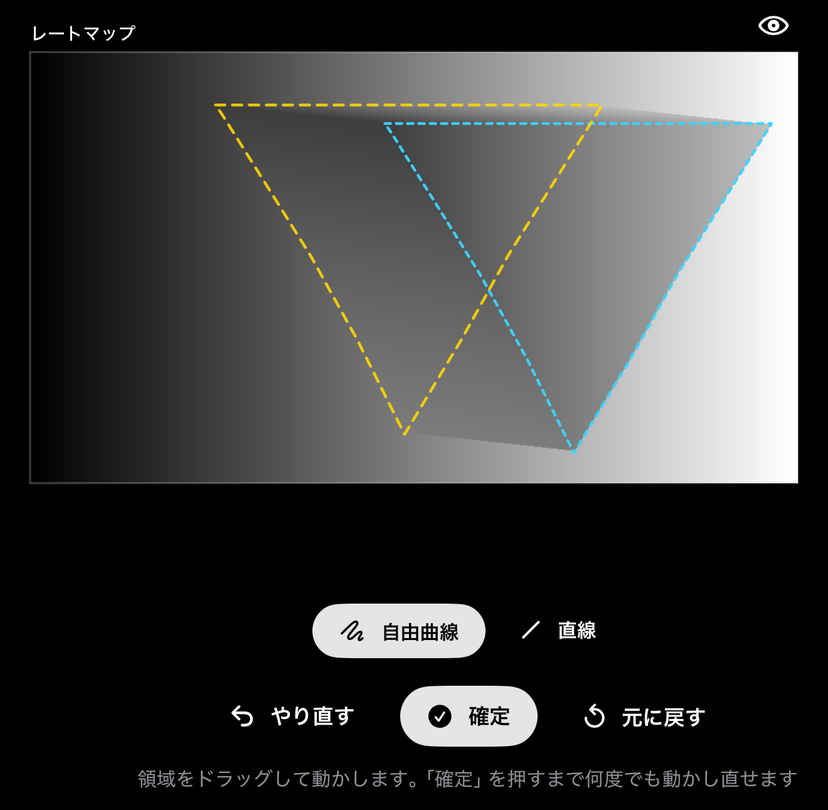
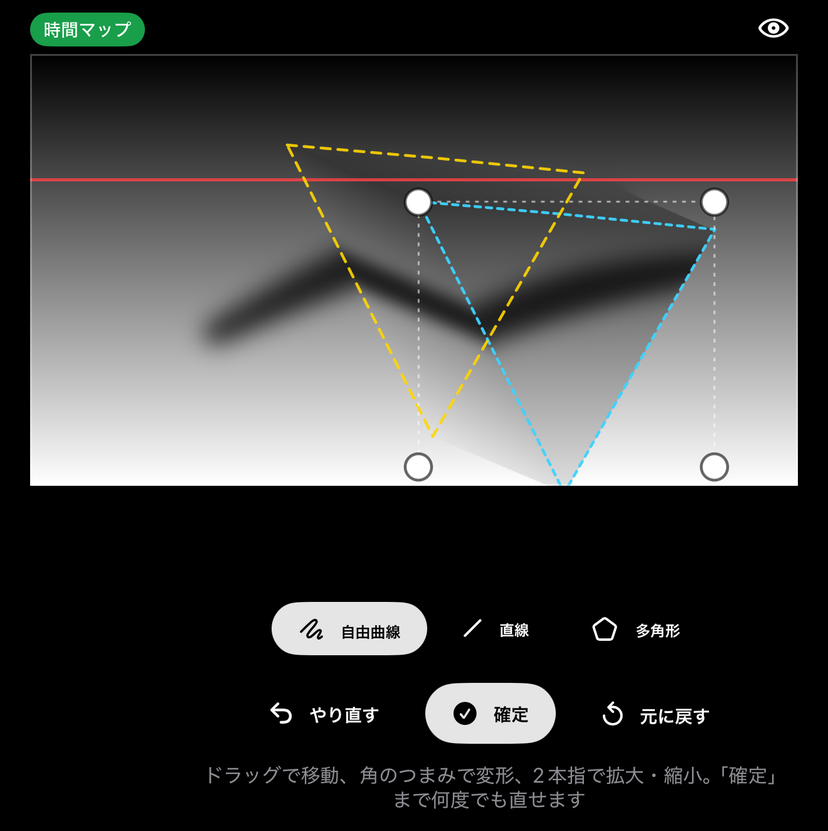
1.25 向け: 案内図と画像を撮り直し、説明を今回の変更に合わせる
編集画面とモニタービューの案内図、3 画面・切り分けの画像を新しい画面に。4 画面と編集範囲の画像を追加。
モニタービューのペン、編集対象、トップ画面の「時間＋空間」、別の動画でも編集したマップを保つこと、
切り分けの説明、英語の FAQ を直す。

diff --git a/index.html b/index.html
@@ -34,7 +34,8 @@
   <li><img class="ui" src="icons/draw.svg" alt=""><strong>描画</strong> — 指でなぞって時間の流れを描く。5段階の濃淡と自由な灰色、スポイト、指先ツール。触れたまま止めると色がにじむ</li>
   <li><img class="ui" src="icons/gradient.svg" alt=""><img class="ui" src="icons/preset.svg" alt=""><strong>グラデーション生成・プリセット</strong> — 規則的なパターンから始める</li>
   <li><img class="ui" src="icons/motion.svg" alt=""><strong>モーション解析</strong> — 映像自身の動きから自動で時間の形をつくる</li>
-  <li><img class="ui" src="icons/cut.svg" alt=""><strong>切り分け</strong> — マップを線で2つに分けてずらし、時間のずれをつくる</li>
+  <li><img class="ui" src="icons/cut.svg" alt=""><strong>切り分け</strong> — マップを線で2つに分け、動かしたり拡大・台形に変形したりして、時間のずれをつくる</li>
+  <li><img class="ui" src="icons/edit_region.svg" alt=""><strong>編集範囲</strong> — マップの中に四角を引き、その中（または外）だけを編集する</li>
 </ul>
 <h3>描いた時間の効かせ方</h3>
 <ul>
@@ -79,6 +80,7 @@
     <strong>入力映像・マップ・出力映像・立体グラフ・時間グラフ</strong>を選ぶと、いくつでも並べて見比べられます。
     押した順に上から並びます（横長の画面では左右に）。マップは、いま出力に効いているもの（時間マップかレートマップ）が出ます。
     空間マップは編集したときだけ選べます。トップ画面の立体グラフの右下のボタンから開くと、立体グラフだけで始まります。編集画面の出力映像と立体グラフの右下のボタンからも開け、「戻る」で編集画面に帰ります。
+    並べたマップの右下のペン<img class="ui" src="icons/map_edit.svg" alt="">を押すと、そのマップの編集画面へ移ります。
     画面の大きな端末（iPhone Air・Plus・Pro Max・iPad）では、並べた画面の右下のボタンでその画面だけを全画面にできます。
     モニタービューは見るための画面なので、書き出しはトップ画面の「書き出し」から行います。
     </p>
@@ -114,7 +116,7 @@
   <figure><img src="shots/v16/ja/volume.png" alt="立体グラフ。素材の箱の中で斜めに傾いた面と、秒数の目盛り" loading="lazy"><figcaption>立体グラフ。縦スリット×時間マップの「左→右」では、左ほど前の瞬間を映すので面が斜めに傾きます</figcaption></figure>
 </div>
 
-<figure class="guide"><a href="shots/guide/editor_ja.jpg"><img src="shots/guide/editor_ja.jpg" alt="編集画面の各部の名前を赤い線で示した図。上から適用パラメータなどのボタン、結果の映像、編集するマップ、筆の色とスライダー、手法のボタン" loading="lazy"></a><figcaption>編集画面（押すと大きく開きます）</figcaption></figure>
+<figure class="guide"><a href="shots/guide/editor_ja.jpg"><img src="shots/guide/editor_ja.jpg" alt="編集画面の各部の名前を赤い線で示した図。上から編集対象や適用パラメータなどのボタン、結果の映像、編集するマップのタブと編集範囲、マップ、筆の色とスライダー、手法のボタン" loading="lazy"></a><figcaption>編集画面（押すと大きく開きます）</figcaption></figure>
     <h3>2. マップを描く</h3>
     <p>
     マップ画像の右下にある鉛筆アイコン<img class="ui" src="icons/map_edit.svg" alt="">、出力映像のタップ、または画面下の<img class="ui" src="icons/dock_edit.svg" alt=""><strong>「編集」</strong>から編集画面に入ります。
@@ -145,15 +147,23 @@
     右上の表示メニュー<img class="ui" src="icons/layout.svg" alt="">で並べ方を選べます。<strong>重ねて表示</strong>・<strong>2画面: 映像 ＋ マップ</strong>（最初の表示）のほか、
     <strong>2画面: 立体グラフ ＋ マップ</strong>と<strong>3画面: 映像 ＋ 立体グラフ ＋ マップ</strong>では、描きながら立体グラフの面の変化を確かめられます。3画面は画面の長い方向に並びます。<strong>4画面: 映像 ＋ 立体 ＋ マップ 2 枚</strong>は時間系のマップと空間マップを並べ、緑の枠が編集中のマップです（もう一方を押すとそちらに切り替わります）。
     左上の<strong>編集対象</strong>では、時間マップかレートマップのどちらかと、空間マップを一緒に選べます。2 枚を選んでいるときは、マップの上に「時間マップ｜空間マップ」のタブが並び、押して描く相手を切り替えます（緑が編集中）。空間マップをすでに編集していれば、最初から 2 枚で開きます。
+    トップ画面のマップの名前は、時間系と空間の両方を編集していると「時間＋空間」になり、いま見えているほうが明るく出ます。
+    </p>
+    <p>
+    <strong>別の動画を読み込んでも、編集したマップは保たれます。</strong>新しい動画の縦横比に合わせて引き伸ばし、編集の手順もそのまま戻せます。編集していないマップは新しい動画に合わせた既定の形になります。既定に戻したいときは、ひとつ前に戻す<img class="ui" src="icons/undo.svg" alt="">の長押しかプリセットの「既定」を使います。
     </p>
     <p>
     マップの名前の横の<strong>編集範囲</strong><img class="ui" src="icons/edit_region.svg" alt="">を押してからマップをドラッグすると、その四角の中だけに描画・生成・プリセット・ブラー・ガンマ・反転が効きます（四角は緑の破線で示し、効かない側を少し暗くします）。
     プリセットのグラデーションは四角の端から端までになるので、部分ごとに違うグラデーションを置けます。隣の<img class="ui" src="icons/edit_region_swap.svg" alt="">で四角の外側に切り替えられ、編集範囲をもう一度押すと解除します。切り分けの結果も四角の中だけに残ります（切り分けの間はボタンが出ないので、範囲の変更はほかの方法で）。
     </p>
+    <figure class="crop"><img src="shots/v125/ja/edit_region.png" alt="編集範囲を右側に引き、その中だけに左→右のプリセットを塗った画面。四角は緑の破線で、外は元のマップのまま" loading="lazy"><figcaption>四角の中だけに左→右のプリセット。グラデーションは四角の端から端まで</figcaption></figure>
   
 
 
-<figure><img src="shots/v16/ja/editor_3pane.png" alt="編集画面の3画面表示。上から出力映像、傾いた面の入った立体グラフ、左→右のグラデーションの時間マップが並ぶ" loading="lazy"><figcaption>3画面: 映像 ＋ 立体グラフ ＋ マップ</figcaption></figure>
+<div class="gallery">
+  <figure><img src="shots/v16/ja/editor_3pane.png" alt="編集画面の3画面表示。上から出力映像、立体グラフ、時間マップが並ぶ" loading="lazy"><figcaption>3画面: 映像 ＋ 立体グラフ ＋ マップ</figcaption></figure>
+  <figure><img src="shots/v125/ja/editor_quad.png" alt="編集画面の4画面表示。上から出力映像、立体グラフ、緑の枠の時間マップ、空間マップが並ぶ" loading="lazy"><figcaption>4画面: 緑の枠が編集中のマップ</figcaption></figure>
+</div>
 
     <h3>3. 生成やプリセットから始める</h3>
     <p>
@@ -384,7 +394,8 @@ thought you knew.
   <li><img class="ui" src="icons/draw.svg" alt=""><strong>Draw</strong> &mdash; trace with a finger to draw the flow of time. Five brush tones and a smudge tool; hold still and the tone bleeds outward</li>
   <li><img class="ui" src="icons/gradient.svg" alt=""><img class="ui" src="icons/preset.svg" alt=""><strong>Gradients and presets</strong> &mdash; start from a regular pattern</li>
   <li><img class="ui" src="icons/motion.svg" alt=""><strong>From motion</strong> &mdash; build the shape of time automatically from the movement in the clip</li>
-  <li><img class="ui" src="icons/cut.svg" alt=""><strong>Cut &amp; slide</strong> &mdash; split the map along a line and slide the pieces to make time slip</li>
+  <li><img class="ui" src="icons/cut.svg" alt=""><strong>Cut &amp; slide</strong> &mdash; split the map along a line, then move, scale or reshape the pieces to make time slip</li>
+  <li><img class="ui" src="icons/edit_region.svg" alt=""><strong>Edit region</strong> &mdash; draw a rectangle on the map and edit only its inside (or outside)</li>
 </ul>
 <h3>How the map is applied</h3>
 <ul>
@@ -539,8 +550,7 @@ laid out together, in the order you picked them &mdash; from the top, or left to
 is the one driving the output (the time map or the rate map); the space map can be picked once you have edited it.
 Opened from the 3D plot on the main screen, it starts with the 3D plot alone. On larger screens (iPhone Air, Plus,
 Pro Max and iPad) a button at the bottom right of each pane shows that one alone. The button at the bottom right of the
-Output and the 3D plot in the editor opens it too, and <strong>Back</strong> returns to the editor. The Monitor view is for looking
-only: export from <strong>Export</strong> on the main screen.
+Output and the 3D plot in the editor opens it too, and <strong>Back</strong> returns to the editor. The pen <img class="ui" src="icons/map_edit.svg" alt=""> at the bottom right of a map pane opens that map in the editor. To export, use <strong>Export</strong> on the main screen.
 </p>
 <figure class="guide"><a href="shots/guide/monitor_en.jpg"><img src="shots/guide/monitor_en.jpg" alt="The Monitor view showing the input video, the time map, the output video and the 3D plot, with the menu below for switching what is shown" loading="lazy"></a><figcaption>The Monitor view (tap to enlarge)</figcaption></figure>
 <div class="gallery">
@@ -585,15 +595,16 @@ mode is explained in <a href="time.html#volume-en">How time processing works</a>
 </p>
 <figure class="crop"><img src="shots/v16/en/volume.png" alt="The 3D plot: a tilted surface carrying the picture inside a box marked in seconds" loading="lazy"><figcaption>The 3D plot. With a Left &rarr; right time map under a vertical slit, the left of the picture shows earlier moments, so the surface is tilted</figcaption></figure>
 
-<figure class="guide"><a href="shots/guide/editor_en.jpg"><img src="shots/guide/editor_en.jpg" alt="The editor with each part named by red lines: the buttons along the top, the result, the map you edit, brush tones and sliders, and the method buttons" loading="lazy"></a><figcaption>The editor (tap to enlarge)</figcaption></figure>
+<figure class="guide"><a href="shots/guide/editor_en.jpg"><img src="shots/guide/editor_en.jpg" alt="The editor with each part named by red lines: the buttons along the top, the result, the map tabs and Edit region, the map you edit, brush tones and sliders, and the method buttons" loading="lazy"></a><figcaption>The editor (tap to enlarge)</figcaption></figure>
     <h3>3. Drawing or generating a map</h3>
     <p>
     The editor opens full screen. The row across the top carries the map-and-mode label at the left, the gear <img class="ui" src="icons/map_gear.svg" alt=""> (<strong>Parameters</strong>), the waveform (<strong>Sound</strong>), and an <strong>X</strong> at the far
-    right that closes the editor, with the layout menu <img class="ui" src="icons/layout.svg" alt=""> beside it. The method buttons sit at the bottom right. The <strong>Editing</strong> menu at the top left picks the time map or the rate map, and can add the space map alongside; with two selected, tabs above the map choose which one you draw on (green marks the one being edited), and the editor opens with both whenever the space map has already been edited. Nothing needs saving &mdash; the map is already applied.
+    right that closes the editor, with the layout menu <img class="ui" src="icons/layout.svg" alt=""> beside it. The method buttons sit at the bottom right. The <strong>Editing</strong> menu at the top left picks the time map or the rate map, and can add the space map alongside; with two selected, tabs above the map choose which one you draw on (green marks the one being edited), and the editor opens with both whenever the space map has already been edited. On the main screen, the map&rsquo;s name reads <strong>Time + Space</strong> once both have been edited, with the one on show brighter. Nothing needs saving &mdash; the map is already applied.
     </p>
     <p>
     <strong>Edit region</strong> <img class="ui" src="icons/edit_region.svg" alt=""> beside the map name limits your edits to a rectangle: tap it, then drag on the map. Draw, Gradient, Presets, Fill, Blur, Gamma, Invert and From motion then act only inside it (shown as a green dashed rectangle, with the other side slightly darkened). A preset gradient runs from one edge of the rectangle to the other, so different parts of the map can carry different gradients. The button beside it <img class="ui" src="icons/edit_region_swap.svg" alt=""> swaps to the outside of the rectangle; tap Edit region again to clear it. Cut &amp; slide keeps its result inside the region as well (its buttons are hidden while cutting, so change the region from another method).
     </p>
+    <figure class="crop"><img src="shots/v125/en/edit_region.png" alt="An edit region drawn on the right with a left-to-right preset inside it; the rectangle is a green dashed line and the map outside is unchanged" loading="lazy"><figcaption>A left-to-right preset inside the rectangle: the gradient runs from edge to edge of it</figcaption></figure>
     <p>
     Trace the map with a finger or Apple&nbsp;Pencil. The brush button opens a palette holding
     <strong>Fill</strong> <img class="ui" src="icons/fill.svg" alt="">, five tones &mdash; <strong>Black</strong>,
@@ -637,9 +648,9 @@ Two separate choices decide what a grayscale image does to your footage: the <st
 &mdash; what brightness is taken to mean &mdash; and the <strong>mode</strong> &mdash; how the map is laid
 over the picture. Both live behind one label at the top left of the editor, which reads something like
 <strong>Time map</strong> &middot; <strong>Vertical slit</strong> &mdash; the combination a new session starts on. Tap it and a menu opens whose top section is
-headed <strong>Map</strong> (Time map, Rate map, <strong>Space map (optional)</strong>) and whose lower
-section is headed <strong>Modes</strong> &mdash; or <strong>Mode (space uses slits only)</strong> when a space
-map is what you are editing.
+headed <strong>Editing</strong> (Time map, Rate map, <strong>Space map</strong>) and whose lower
+section is headed <strong>Modes</strong> &mdash; or <strong>Mode (space uses slits only)</strong> when the space
+map alone is what you are editing. Time and rate are either-or; the space map can be selected with either of them, and the label then reads <strong>Time + Space</strong> or <strong>Rate + Space</strong>.
 </p>
 <p>
 The app stores a <strong>separate image for each kind</strong>. Switching from Time map to Rate map recalls
@@ -814,7 +825,10 @@ all three, stacked along the longer side of the screen, so you can watch the sur
 choice is independent of what an external display is showing &mdash; that shows the output alone, or mirrors
 the screen if you chose that in Settings.
 </p>
-<figure><img src="shots/v16/en/editor_3pane.png" alt="The editor in Three panes: the output video at the top, the 3D plot with a tilted surface in the middle, and a left-to-right time map at the bottom" loading="lazy"><figcaption>Three panes: video + 3D plot + map</figcaption></figure>
+<div class="gallery">
+  <figure><img src="shots/v16/en/editor_3pane.png" alt="The editor in Three panes: the output video, the 3D plot and the time map, top to bottom" loading="lazy"><figcaption>Three panes: video + 3D plot + map</figcaption></figure>
+  <figure><img src="shots/v125/en/editor_quad.png" alt="The editor in Four panes: the output video, the 3D plot, the time map with a green frame, and the space map, top to bottom" loading="lazy"><figcaption>Four panes: the green frame marks the map being edited</figcaption></figure>
+</div>
 
 <h3>Draw</h3>
 <p>
@@ -981,7 +995,7 @@ still map.
 
 <h3>Cut &amp; slide</h3>
 <p>
-This method splits the map in two with a line and lets you slide the pieces apart. The gap that opens is not left
+This method splits the map in two with a line and lets you move, scale and reshape the pieces. The gap that opens is not left
 empty: the values that used to sit on either side of the cut are joined across it and blended, so the edge looks
 stretched rather than torn, and a piece dragged far away stays connected to where it came from by a band. On a
 time or rate map that stretches one region of time away from its neighbour; on the space map it builds structures
@@ -1440,10 +1454,8 @@ with the counter-clockwise arrow in the editor&rsquo;s tool row: that reset rebu
 here, at the cost of the drawing.
 </p>
 <p>
-One behaviour to know before you spend time on a map: <strong>loading a different video rebuilds every map,
-edited ones included</strong>, at a size matched to the new clip&rsquo;s aspect ratio, and discards a size you
-set by hand. A map made for one aspect ratio does not mean anything over another. Reloading the <em>same</em>
-clip &mdash; the reload buttons, or rotating the video &mdash; does not do this.
+Loading a different video <strong>keeps the maps you edited</strong>: they are stretched to a size matched to the new clip&rsquo;s aspect ratio, along with their undo history, and a size you set by hand is discarded. Maps you never edited are rebuilt to the new clip&rsquo;s default. Reloading the <em>same</em>
+clip &mdash; the reload buttons, or rotating the video &mdash; leaves every map as it is.
 </p>
 
 <h3>Export options</h3>
@@ -1509,7 +1521,7 @@ In <strong>Settings &rarr; Video Loading</strong>, a Resolution of 1/4 or 1/2 wi
 keeps drawing responsive &mdash; that is the setting to design in. When the map is right, raise
 <strong>Resolution</strong>, tap <strong>Reload with these settings</strong>, and export after that: the file is
 written at the resolution that is loaded, so raising it afterwards does nothing. Reloading the same clip keeps the map
-you drew; only loading a different video rebuilds it.
+you drew, and so does loading a different video, which stretches it to the new aspect ratio.
 </p>
 
 <h3>Isolate one moment with the range in use</h3>
@@ -1723,11 +1735,10 @@ default. In <strong>Cut &amp; slide</strong>, <strong>Revert</strong> also retur
 opened that method.
 </p>
 
-<h3>My drawing disappeared when I loaded another video</h3>
+<h3>What happens to my map when I load another video?</h3>
 <p>
-Loading a <em>different</em> clip rebuilds every map at the new video&rsquo;s aspect ratio, edited ones included,
-because a map shaped for the old frame no longer lines up. Re-importing the <em>same</em> clip does not
-&mdash; changing the Video Loading settings, reloading the range, or rotating leaves your maps alone.
+Maps you edited are kept and stretched to the new video&rsquo;s aspect ratio, and Undo still works. Maps you never edited become the new clip&rsquo;s default. To start again from the default, hold Undo, or pick the preset marked Default. Re-importing the <em>same</em> clip
+&mdash; changing the Video Loading settings, reloading the range, or rotating &mdash; leaves your maps alone.
 </p>
 
 <h3>Can I bring a map in from elsewhere, or take one out?</h3>

diff --git a/time.html b/time.html
@@ -15,7 +15,7 @@
 <header>
   <img class="icon" src="icon.png" alt="">
   <h1 id="top">動画の時間処理の仕組み</h1>
-  <p class="lede">Time Flow Sketch 1.24 が、読み込んだ動画のどの瞬間を、出力のいつ映すのか</p>
+  <p class="lede">Time Flow Sketch 1.25 が、読み込んだ動画のどの瞬間を、出力のいつ映すのか</p>
 </header>
 
 <nav><a href="index.html">サポートページへ戻る</a><a href="#en">English</a></nav>
@@ -191,7 +191,7 @@
 
 <h1 id="en" lang="en">How time processing works</h1>
 <div lang="en">
-<p class="lede">Which moment of your video Time Flow Sketch 1.24 shows at each instant of the output</p>
+<p class="lede">Which moment of your video Time Flow Sketch 1.25 shows at each instant of the output</p>
 
 <nav><a href="index.html#en">Back to the support page</a><a href="#top">日本語</a></nav>
 
